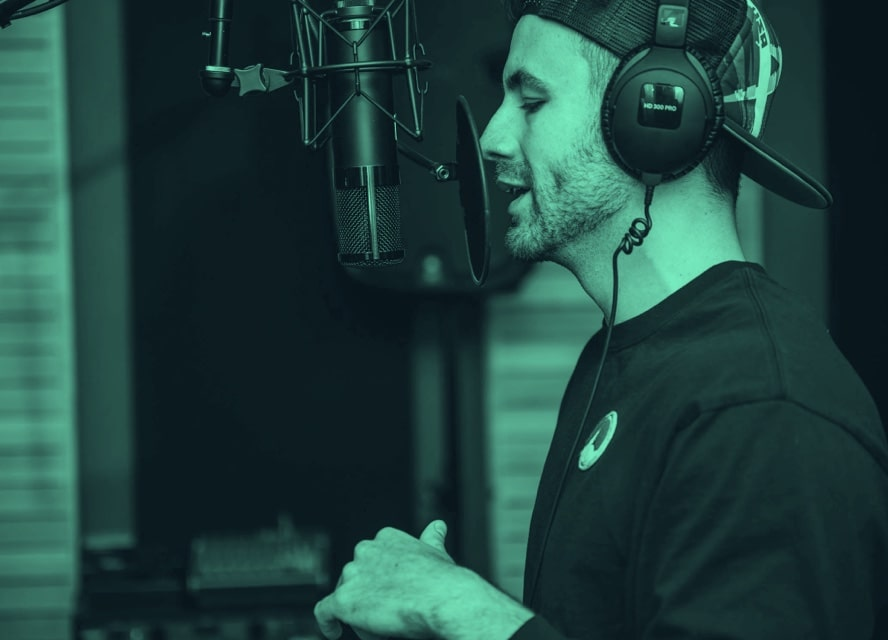
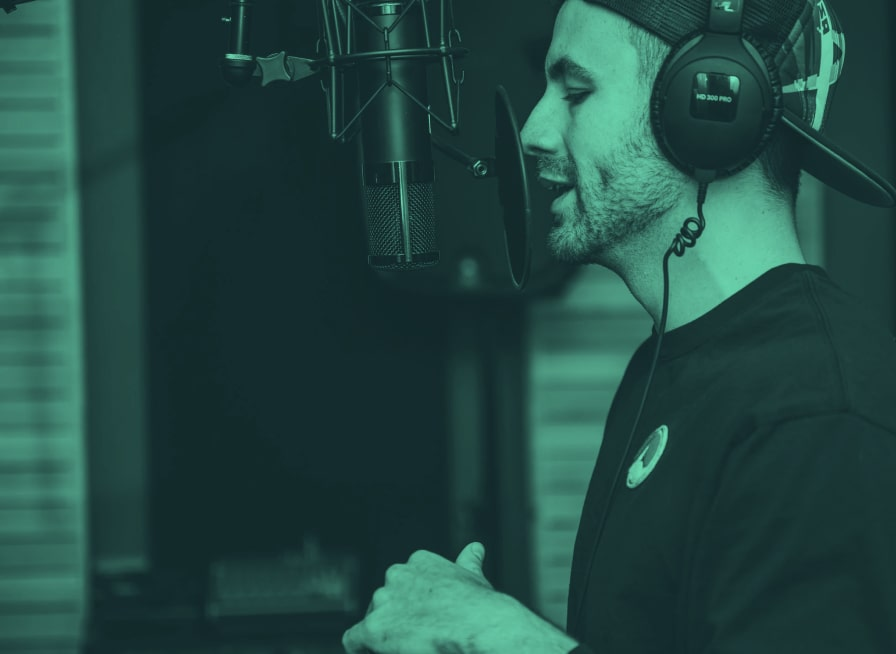
Replace bg images for desktop and tablet

diff --git a/css/styles.css b/css/styles.css
@@ -162,18 +162,23 @@ button:hover {
         font-size: 48px;
         margin-bottom: 24px;
         text-align: left;
+        max-width: 528px;
     }
 
     p {
         font-size: 18px;
         text-align: left;
         max-width: 448px;
+        margin-top: 0;
     }
 
     main {
         max-width: 592px;
         margin: 0;
+        padding-top: 88px;
+      
         background-color: var(--blue-950);
+        background-color: red;
     }
 
     form {
@@ -204,7 +209,7 @@ button:hover {
     .logo {
         display: block;
         margin-top: 0;
-        margin-bottom: 192px;
+        margin-bottom: 104px;
         margin-left: initial;
         margin-right: auto;
     }
@@ -251,8 +256,13 @@ button:hover {
 }
 
 @media only screen and (min-width: 1120px) {
+
+    h1 {
+        max-width: 665px;
+    }
     main {
         max-width: 736px;
+        padding-top: 74.5px;
     }
 
     .tablet-bg {
@@ -261,7 +271,7 @@ button:hover {
     
     .desktop-bg {
         position: absolute;
-        top: 153px;
+        top: 156px;
         right: 0;
         display: initial;
         z-index: -1;
